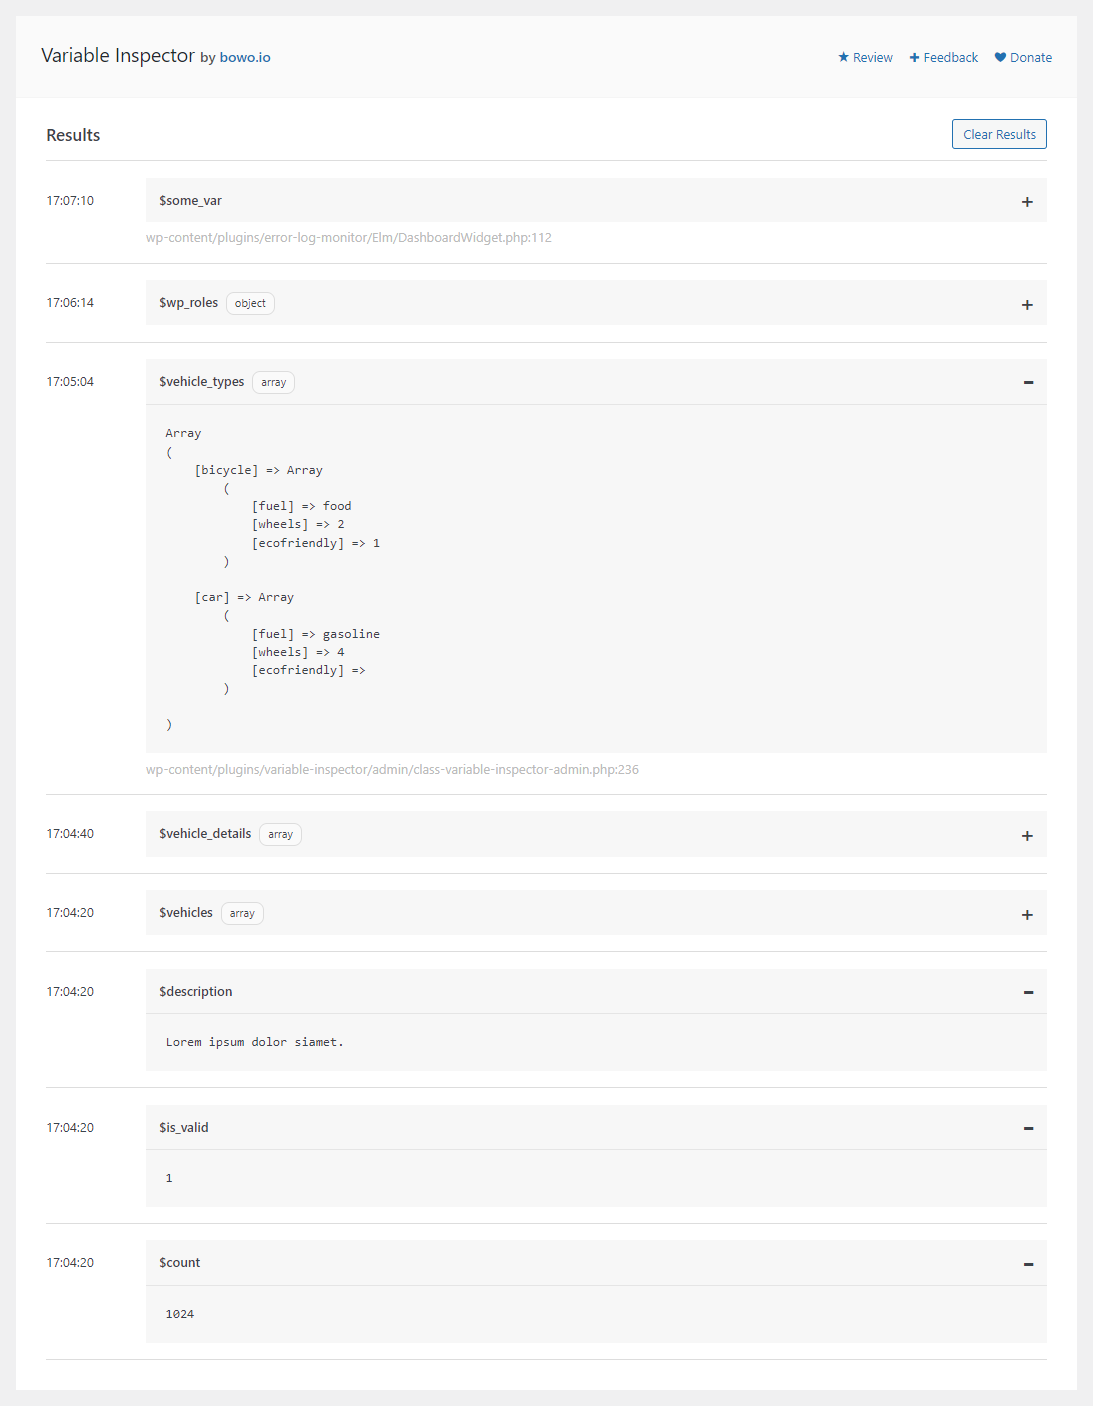
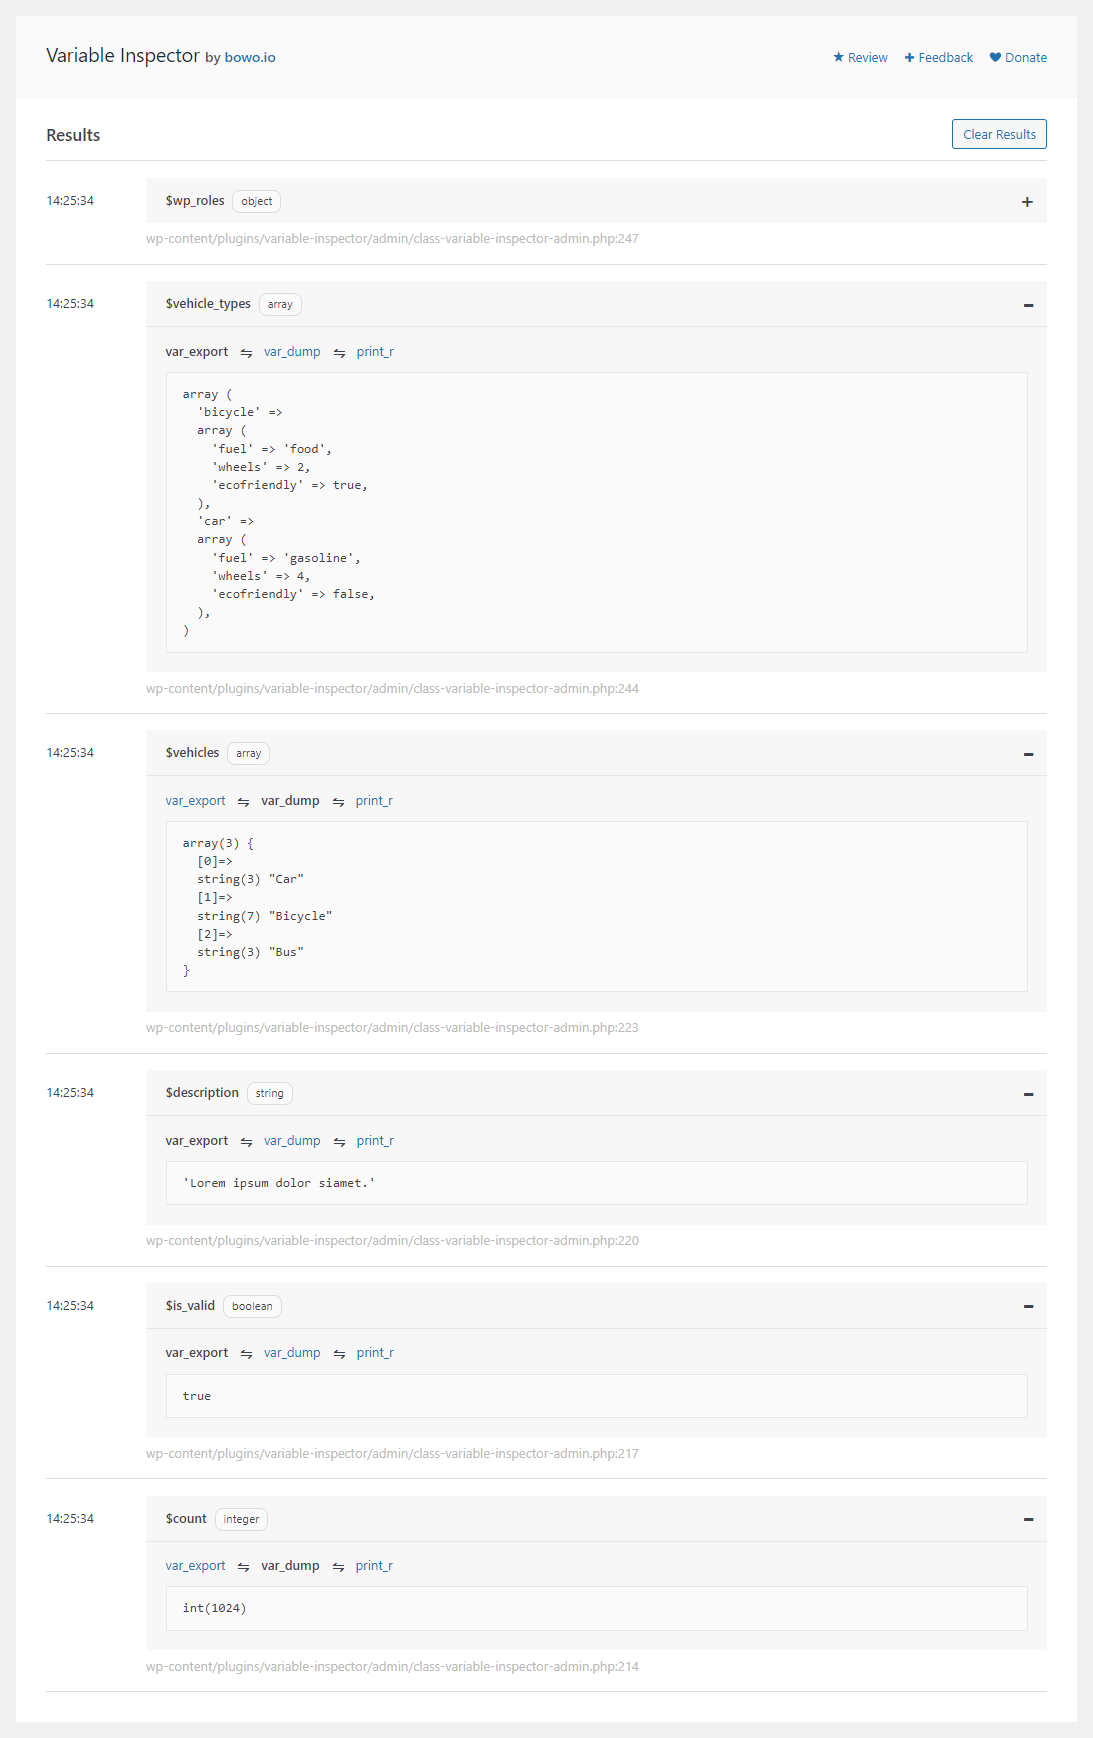
v1.2.0 release

diff --git a/variable-inspector.php b/variable-inspector.php
@@ -16,7 +16,7 @@
  * Plugin Name:       Variable Inspector
  * Plugin URI:        https://wordpress.org/plugins/variable-inspector/
  * Description:       Easily dump and centrally inspect your PHP variables for convenient debugging.
- * Version:           1.1.0
+ * Version:           1.2.0
  * Author:            Bowo
  * Author URI:        https://bowo.io
  * License:           GPL-2.0+
@@ -35,7 +35,7 @@ if ( ! defined( 'WPINC' ) ) {
  * Start at version 1.0.0 and use SemVer - https://semver.org
  * Rename this for your plugin and update it as you release new versions.
  */
-define( 'VARIABLE_INSPECTOR_VERSION', '1.1.0' );
+define( 'VARIABLE_INSPECTOR_VERSION', '1.2.0' );
 
 /**
  * The code that runs during plugin activation.

diff --git a/README.md b/README.md
@@ -5,7 +5,7 @@ Donate link: https://paypal.me/qriouslad
 Tags: php variables, variable dump, debug, developer  
 Requires at least: 4.8  
 Tested up to: 5.9.2  
-Stable tag: 1.1.0  
+Stable tag: 1.2.0  
 Requires PHP: 5.6  
 License: GPLv2 or later  
 License URI: http://www.gnu.org/licenses/gpl-2.0.html
@@ -55,11 +55,16 @@ System Dashboard was built with: [WordPress Plugin Boilerplate](https://github.c
 
 ## Changelog
 
-### 1.1.0 (April 2022)
+### 1.2.0 (2022.04.14)
+
+* Fixed output buffering mistake causing the output of the '1' character in variable values
+* NEW: implement tabbed output of var_export, var_dump and print_r
+
+### 1.1.0 (2022.04.13)
 
 * Fixed "Fatal error: Uncaught Error: Call to undefined function dbDelta()". Thanks to [@rashedul007](https://profiles.wordpress.org/rashedul007/) for [the fix](https://github.com/qriouslad/variable-inspector/pull/2)!
 
-### 1.0.1 (April 2022)
+### 1.0.1 (2022.04.13)
 
 * Initial stable release
 
